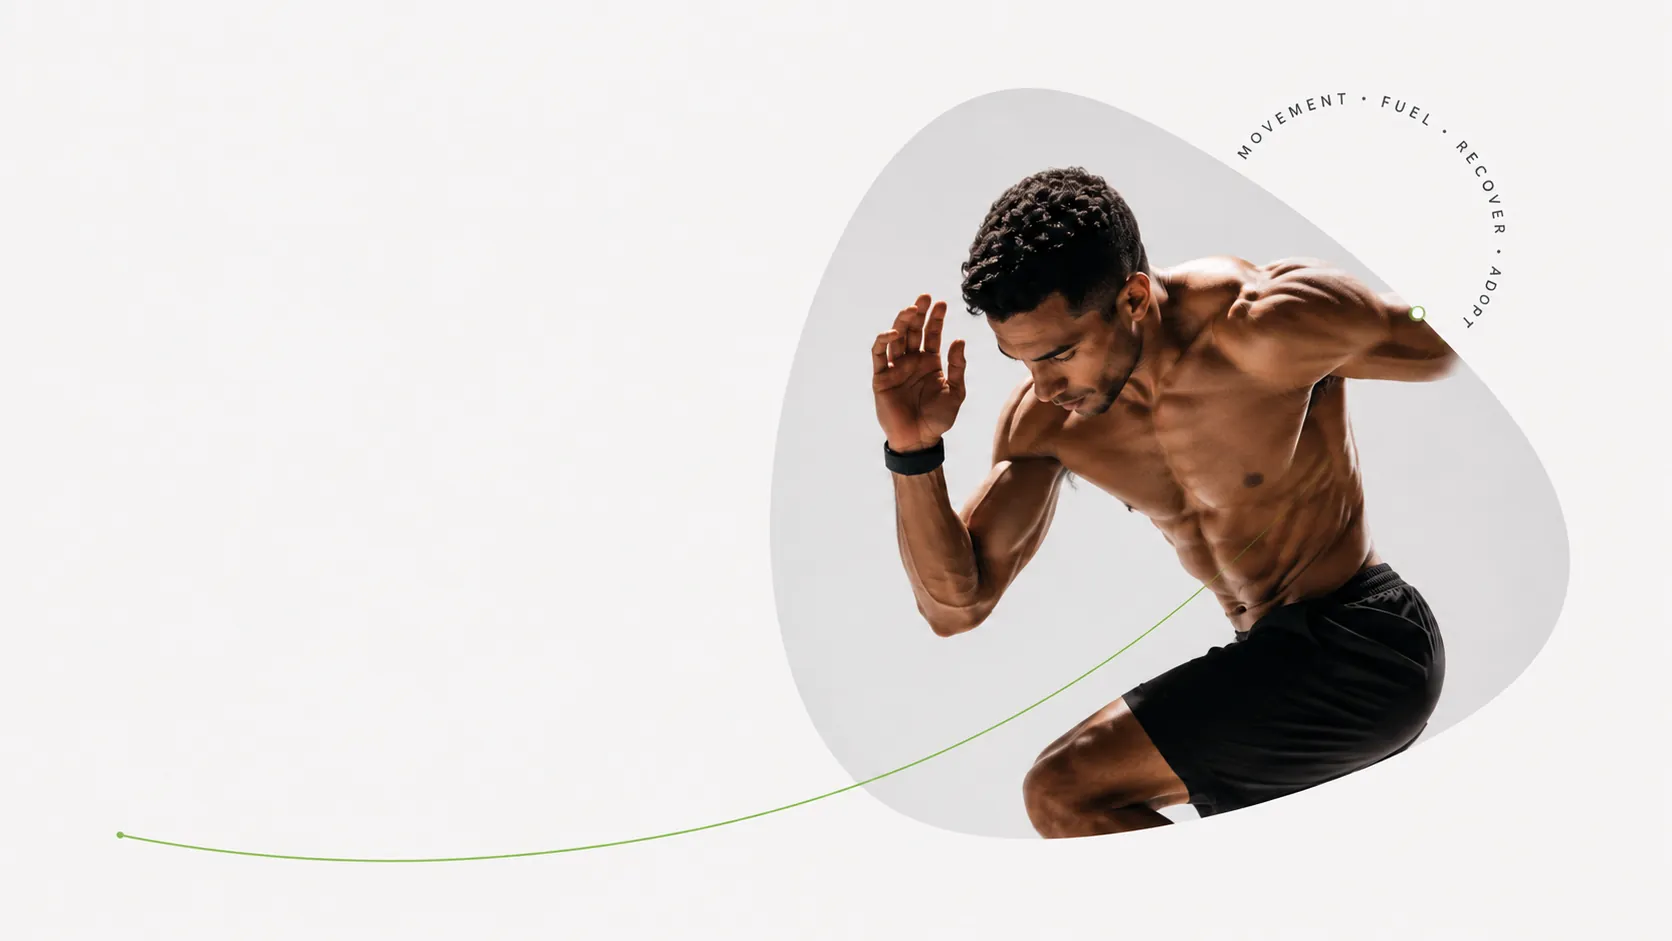
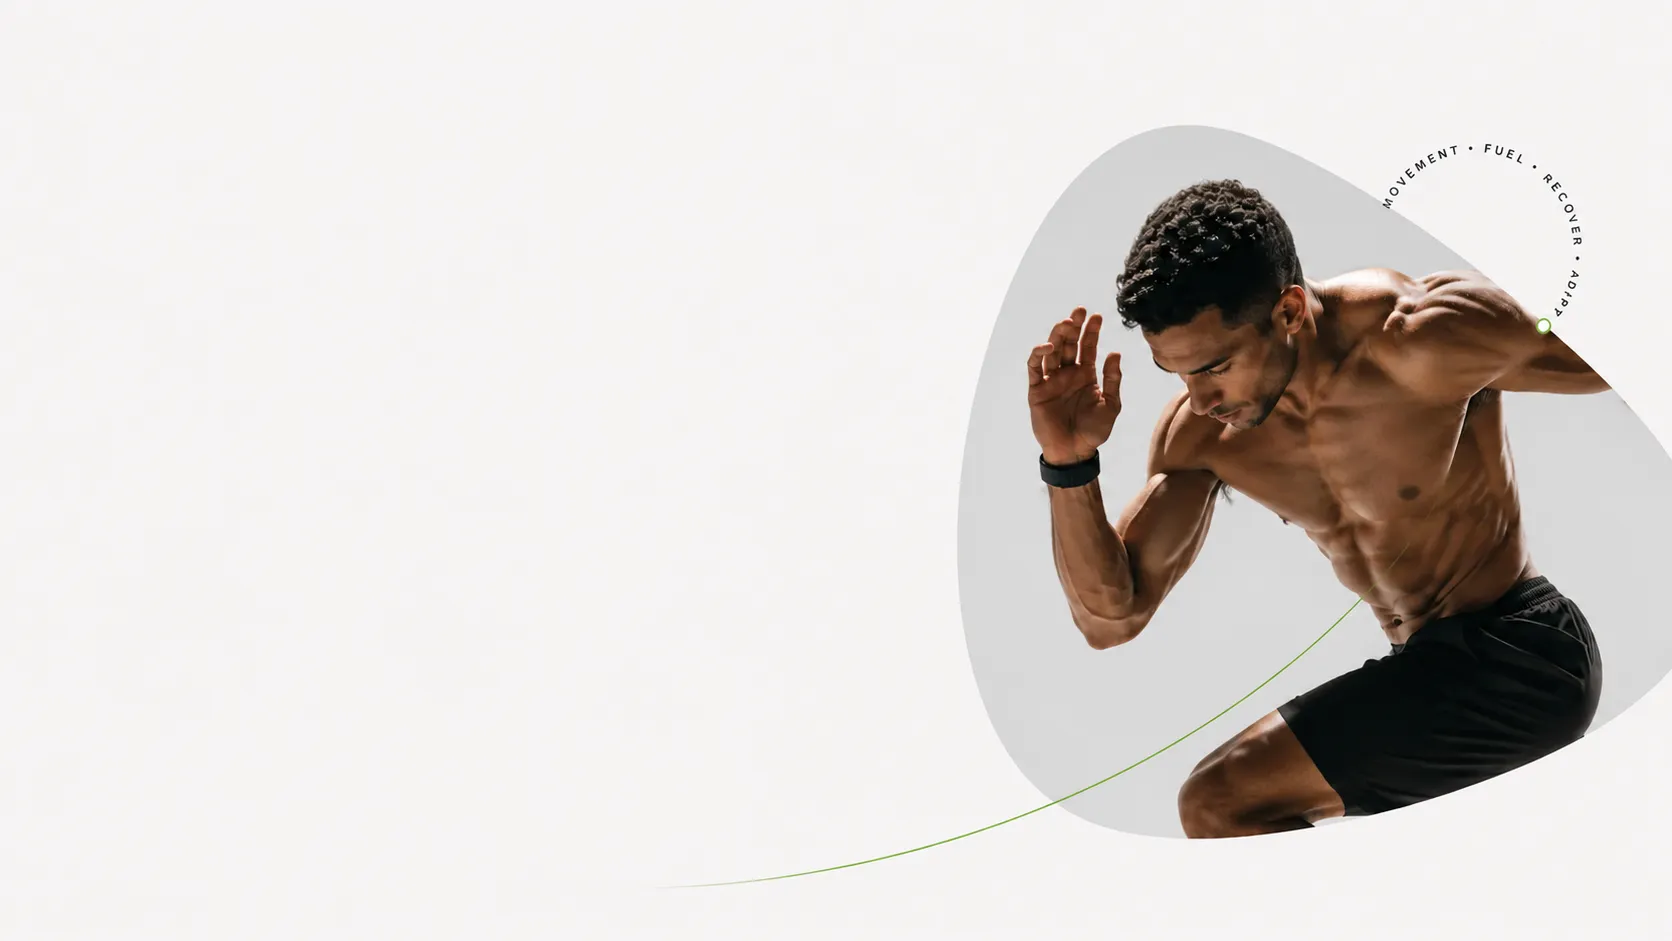
ds

diff --git a/src/components/Hero.jsx b/src/components/Hero.jsx
@@ -4,14 +4,14 @@ import './Hero.css';
 export default function Hero() {
   const mobileImages = [
     "/hero-bg-svg-mob.webp",
-    "/hero-bg-svg-mob2.png",
-    "/hero-bg-svg-mob3.png"
+    "/hero-bg-svg-mob2.webp",
+    "/hero-bg-svg-mob3.webp"
   ];
   
   const desktopImages = [
-    "/hero-bg-svg.png",
-    "/hero-bg-svg2.png",
-    "/hero-bg-svg3.png"
+    "/hero-bg-svg.webp",
+    "/hero-bg-svg2.webp",
+    "/hero-bg-svg3.webp"
   ];
   
   const [currentImageIndex, setCurrentImageIndex] = useState(0);